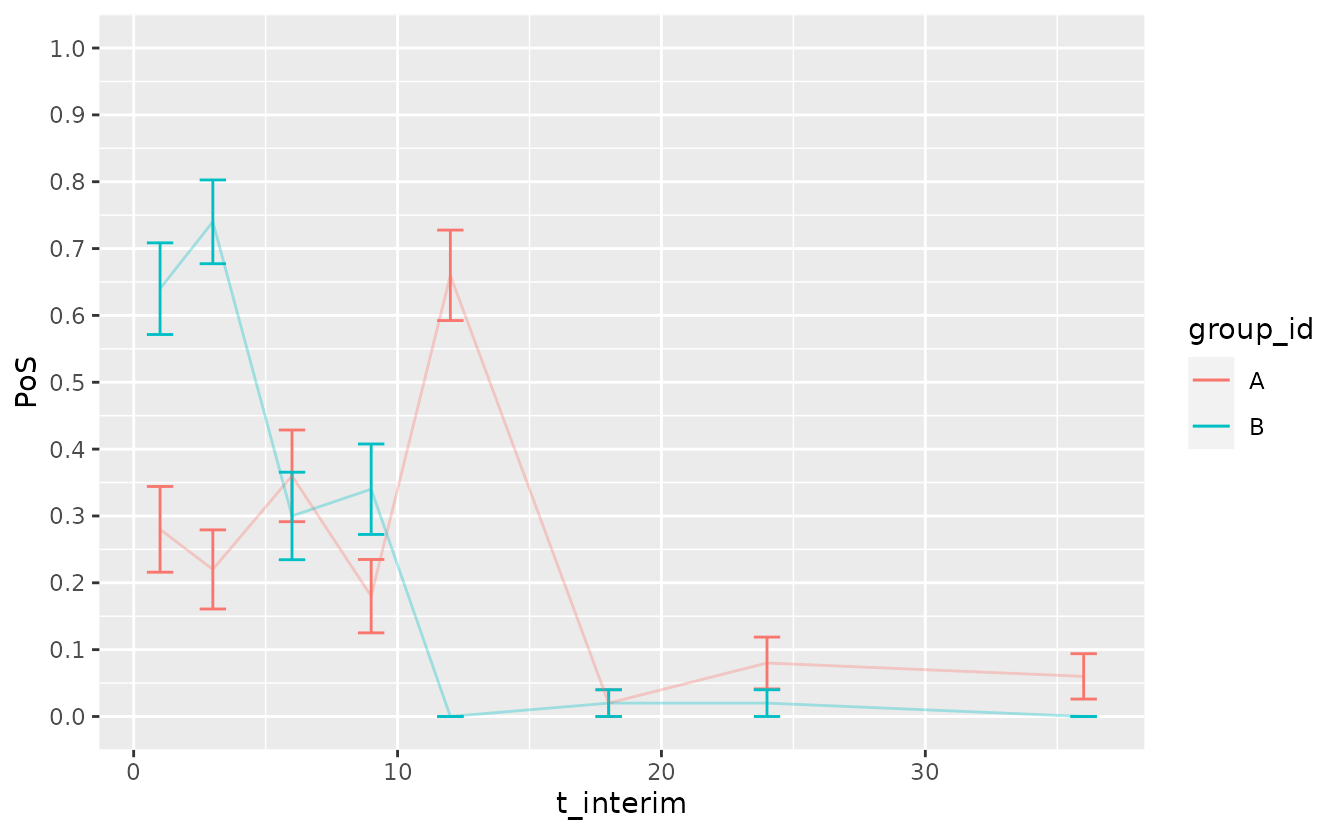
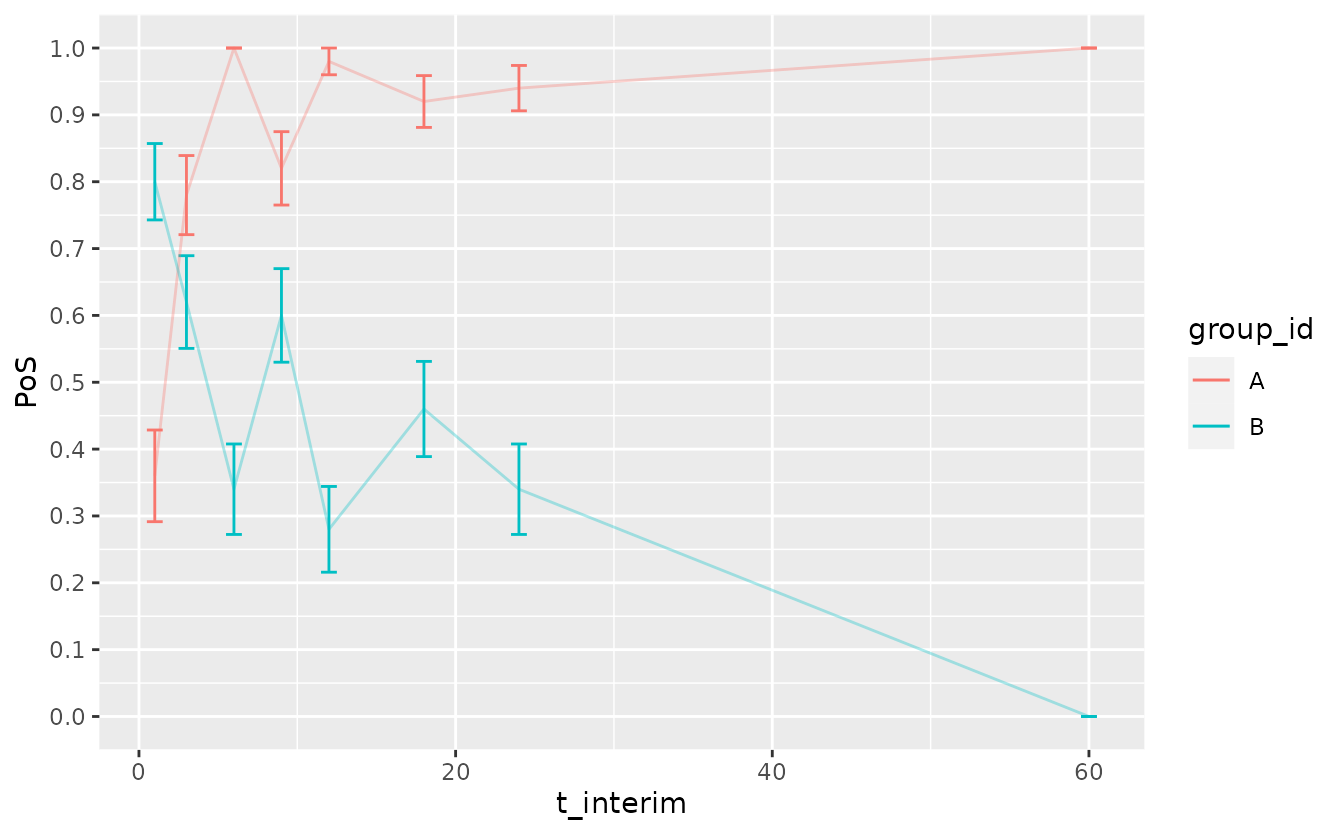
Deploying to gh-pages from @ Boehringer-Ingelheim/oncomsm@55bce09615bc5420eb7b18f04f83bb6ed0f34e55 🚀

diff --git a/articles/web_only/application-to-probability-of-success.html b/articles/web_only/application-to-probability-of-success.html
@@ -273,7 +273,7 @@ to show how the prior shifts.</p>
 <div class="sourceCode" id="cb8"><pre class="downlit sourceCode r">
 <code class="sourceCode R"><span><span class="va">mdl_point</span> <span class="op">&lt;-</span> <span class="fu"><a href="../../reference/srp_model.html">create_srp_model</a></span><span class="op">(</span></span>
 <span>  group_id <span class="op">=</span> <span class="fu"><a href="https://rdrr.io/r/base/c.html" class="external-link">c</a></span><span class="op">(</span><span class="st">"A"</span>, <span class="st">"B"</span><span class="op">)</span>,</span>
-<span>  logodds_mean <span class="op">=</span> <span class="fu"><a href="../../reference/logodds.html">logodds</a></span><span class="op">(</span><span class="fu"><a href="https://rdrr.io/r/base/c.html" class="external-link">c</a></span><span class="op">(</span><span class="fl">0.4</span>, <span class="fl">0.3</span><span class="op">)</span><span class="op">)</span>, <span class="co"># chose conflicting ORR parameters</span></span>
+<span>  logodds_mean <span class="op">=</span> <span class="fu"><a href="../../reference/logodds.html">logodds</a></span><span class="op">(</span><span class="fu"><a href="https://rdrr.io/r/base/c.html" class="external-link">c</a></span><span class="op">(</span><span class="fl">0.5</span>, <span class="fl">0.3</span><span class="op">)</span><span class="op">)</span>, <span class="co"># chose conflicting ORR parameters</span></span>
 <span>  logodds_sd <span class="op">=</span> <span class="fu"><a href="https://rdrr.io/r/base/rep.html" class="external-link">rep</a></span><span class="op">(</span><span class="fl">0.01</span>, <span class="fl">2L</span><span class="op">)</span>, <span class="co"># almost constant prior = fixed parameter</span></span>
 <span>  median_time_to_next_event <span class="op">=</span> <span class="fu"><a href="https://rdrr.io/r/base/matrix.html" class="external-link">matrix</a></span><span class="op">(</span><span class="fu"><a href="https://rdrr.io/r/base/c.html" class="external-link">c</a></span><span class="op">(</span></span>
 <span>     <span class="fl">4</span>, <span class="fl">8</span>, <span class="fl">24</span>,</span>
@@ -289,26 +289,26 @@ to show how the prior shifts.</p>
 <span>    recruitment_rate <span class="op">=</span> <span class="fu"><a href="https://rdrr.io/r/base/c.html" class="external-link">c</a></span><span class="op">(</span><span class="fl">40</span> <span class="op">/</span> <span class="fl">24</span>, <span class="fl">40</span> <span class="op">/</span> <span class="fl">24</span><span class="op">)</span> <span class="co"># recruit in 24 months</span></span>
 <span>  <span class="op">)</span></span>
 <span><span class="fu"><a href="https://rdrr.io/r/base/print.html" class="external-link">print</a></span><span class="op">(</span><span class="va">tbl_data</span><span class="op">)</span></span>
-<span><span class="co">#&gt; <span style="color: #949494;"># A tibble: 1,461 × 4</span></span></span>
-<span><span class="co">#&gt;    subject_id group_id      t state </span></span>
-<span><span class="co">#&gt;    <span style="color: #949494; font-style: italic;">&lt;chr&gt;</span>      <span style="color: #949494; font-style: italic;">&lt;chr&gt;</span>     <span style="color: #949494; font-style: italic;">&lt;dbl&gt;</span> <span style="color: #949494; font-style: italic;">&lt;chr&gt;</span> </span></span>
-<span><span class="co">#&gt; <span style="color: #BCBCBC;"> 1</span> 1          A         0.511 stable</span></span>
-<span><span class="co">#&gt; <span style="color: #BCBCBC;"> 2</span> 1          A         1.82  stable</span></span>
-<span><span class="co">#&gt; <span style="color: #BCBCBC;"> 3</span> 1          A         3.13  stable</span></span>
-<span><span class="co">#&gt; <span style="color: #BCBCBC;"> 4</span> 1          A         4.44  stable</span></span>
-<span><span class="co">#&gt; <span style="color: #BCBCBC;"> 5</span> 1          A         5.75  stable</span></span>
-<span><span class="co">#&gt; <span style="color: #BCBCBC;"> 6</span> 1          A         7.06  stable</span></span>
-<span><span class="co">#&gt; <span style="color: #BCBCBC;"> 7</span> 1          A         8.37  stable</span></span>
-<span><span class="co">#&gt; <span style="color: #BCBCBC;"> 8</span> 1          A         9.67  stable</span></span>
-<span><span class="co">#&gt; <span style="color: #BCBCBC;"> 9</span> 1          A        11.0   stable</span></span>
-<span><span class="co">#&gt; <span style="color: #BCBCBC;">10</span> 1          A        12.3   stable</span></span>
-<span><span class="co">#&gt; <span style="color: #949494;"># … with 1,451 more rows</span></span></span></code></pre></div>
+<span><span class="co">#&gt; <span style="color: #949494;"># A tibble: 1,663 × 4</span></span></span>
+<span><span class="co">#&gt;    subject_id group_id       t state   </span></span>
+<span><span class="co">#&gt;    <span style="color: #949494; font-style: italic;">&lt;chr&gt;</span>      <span style="color: #949494; font-style: italic;">&lt;chr&gt;</span>      <span style="color: #949494; font-style: italic;">&lt;dbl&gt;</span> <span style="color: #949494; font-style: italic;">&lt;chr&gt;</span>   </span></span>
+<span><span class="co">#&gt; <span style="color: #BCBCBC;"> 1</span> 1          A         0.052<span style="text-decoration: underline;">5</span> stable  </span></span>
+<span><span class="co">#&gt; <span style="color: #BCBCBC;"> 2</span> 1          A         1.49   stable  </span></span>
+<span><span class="co">#&gt; <span style="color: #BCBCBC;"> 3</span> 1          A         2.93   stable  </span></span>
+<span><span class="co">#&gt; <span style="color: #BCBCBC;"> 4</span> 1          A         4.37   stable  </span></span>
+<span><span class="co">#&gt; <span style="color: #BCBCBC;"> 5</span> 1          A         5.81   stable  </span></span>
+<span><span class="co">#&gt; <span style="color: #BCBCBC;"> 6</span> 1          A         7.25   stable  </span></span>
+<span><span class="co">#&gt; <span style="color: #BCBCBC;"> 7</span> 1          A         8.45   response</span></span>
+<span><span class="co">#&gt; <span style="color: #BCBCBC;"> 8</span> 1          A         9.73   response</span></span>
+<span><span class="co">#&gt; <span style="color: #BCBCBC;"> 9</span> 1          A        11.0    response</span></span>
+<span><span class="co">#&gt; <span style="color: #BCBCBC;">10</span> 1          A        12.3    response</span></span>
+<span><span class="co">#&gt; <span style="color: #949494;"># … with 1,653 more rows</span></span></span></code></pre></div>
 <p>Next, the snapshot at a sequence of time points of this trial data
 can be created. Interim analyses every 3 months starting at 9 months
 after first-patient-in up to 24 months are considered.</p>
 <div class="sourceCode" id="cb9"><pre class="downlit sourceCode r">
 <code class="sourceCode R"><span><span class="va">tbl_data_interims</span> <span class="op">&lt;-</span> <span class="fu"><a href="https://tibble.tidyverse.org/reference/tibble.html" class="external-link">tibble</a></span><span class="op">(</span></span>
-<span>    t_interim <span class="op">=</span> <span class="fu"><a href="https://rdrr.io/r/base/c.html" class="external-link">c</a></span><span class="op">(</span><span class="fl">1</span>, <span class="fl">3</span>, <span class="fl">6</span>, <span class="fl">9</span>, <span class="fl">12</span>, <span class="fl">18</span>, <span class="fl">24</span>, <span class="fl">36</span><span class="op">)</span></span>
+<span>    t_interim <span class="op">=</span> <span class="fu"><a href="https://rdrr.io/r/base/c.html" class="external-link">c</a></span><span class="op">(</span><span class="fl">1</span>, <span class="fl">3</span>, <span class="fl">6</span>, <span class="fl">9</span>, <span class="fl">12</span>, <span class="fl">18</span>, <span class="fl">24</span>, <span class="fl">60</span><span class="op">)</span></span>
 <span>  <span class="op">)</span> <span class="op"><a href="https://magrittr.tidyverse.org/reference/pipe.html" class="external-link">%&gt;%</a></span></span>
 <span>  <span class="fu"><a href="https://dplyr.tidyverse.org/reference/mutate.html" class="external-link">mutate</a></span><span class="op">(</span></span>
 <span>    data <span class="op">=</span> <span class="fu">purrr</span><span class="fu">::</span><span class="fu"><a href="https://purrr.tidyverse.org/reference/map.html" class="external-link">map</a></span><span class="op">(</span><span class="va">t_interim</span>, <span class="kw">function</span><span class="op">(</span><span class="va">t_interim</span><span class="op">)</span> <span class="op">{</span></span>

diff --git a/articles/multi-state-model-for-early-oncology.html b/articles/multi-state-model-for-early-oncology.html
@@ -103,8 +103,8 @@ simple binary analysis is biased.</p>
 response model to a three-state model for “stable”, “response”, and
 “progression or death”. The respective transition numbers are given in
 the graph below.</p>
-<div id="htmlwidget-3db4a8feaa686a034b5c" style="width:672px;height:200px;" class="DiagrammeR html-widget"></div>
-<script type="application/json" data-for="htmlwidget-3db4a8feaa686a034b5c">{"x":{"diagram":"\ngraph LR\n  stable -- 1 --> response\n  response -- 3 --> progression[progression or death]\n  stable -- 2 --> progression[progression or death]\n"},"evals":[],"jsHooks":[]}</script><p>Often, a hazard-based approach is used to model multi-state data.
+<div id="htmlwidget-13d7a4b595ecbcb7602a" style="width:672px;height:200px;" class="DiagrammeR html-widget"></div>
+<script type="application/json" data-for="htmlwidget-13d7a4b595ecbcb7602a">{"x":{"diagram":"\ngraph LR\n  stable -- 1 --> response\n  response -- 3 --> progression[progression or death]\n  stable -- 2 --> progression[progression or death]\n"},"evals":[],"jsHooks":[]}</script><p>Often, a hazard-based approach is used to model multi-state data.
 However, a hazard-based approach has several disadvantages:</p>
 <ol style="list-style-type: decimal">
 <li><p>The hazard scale is difficult to interpret since it is a
